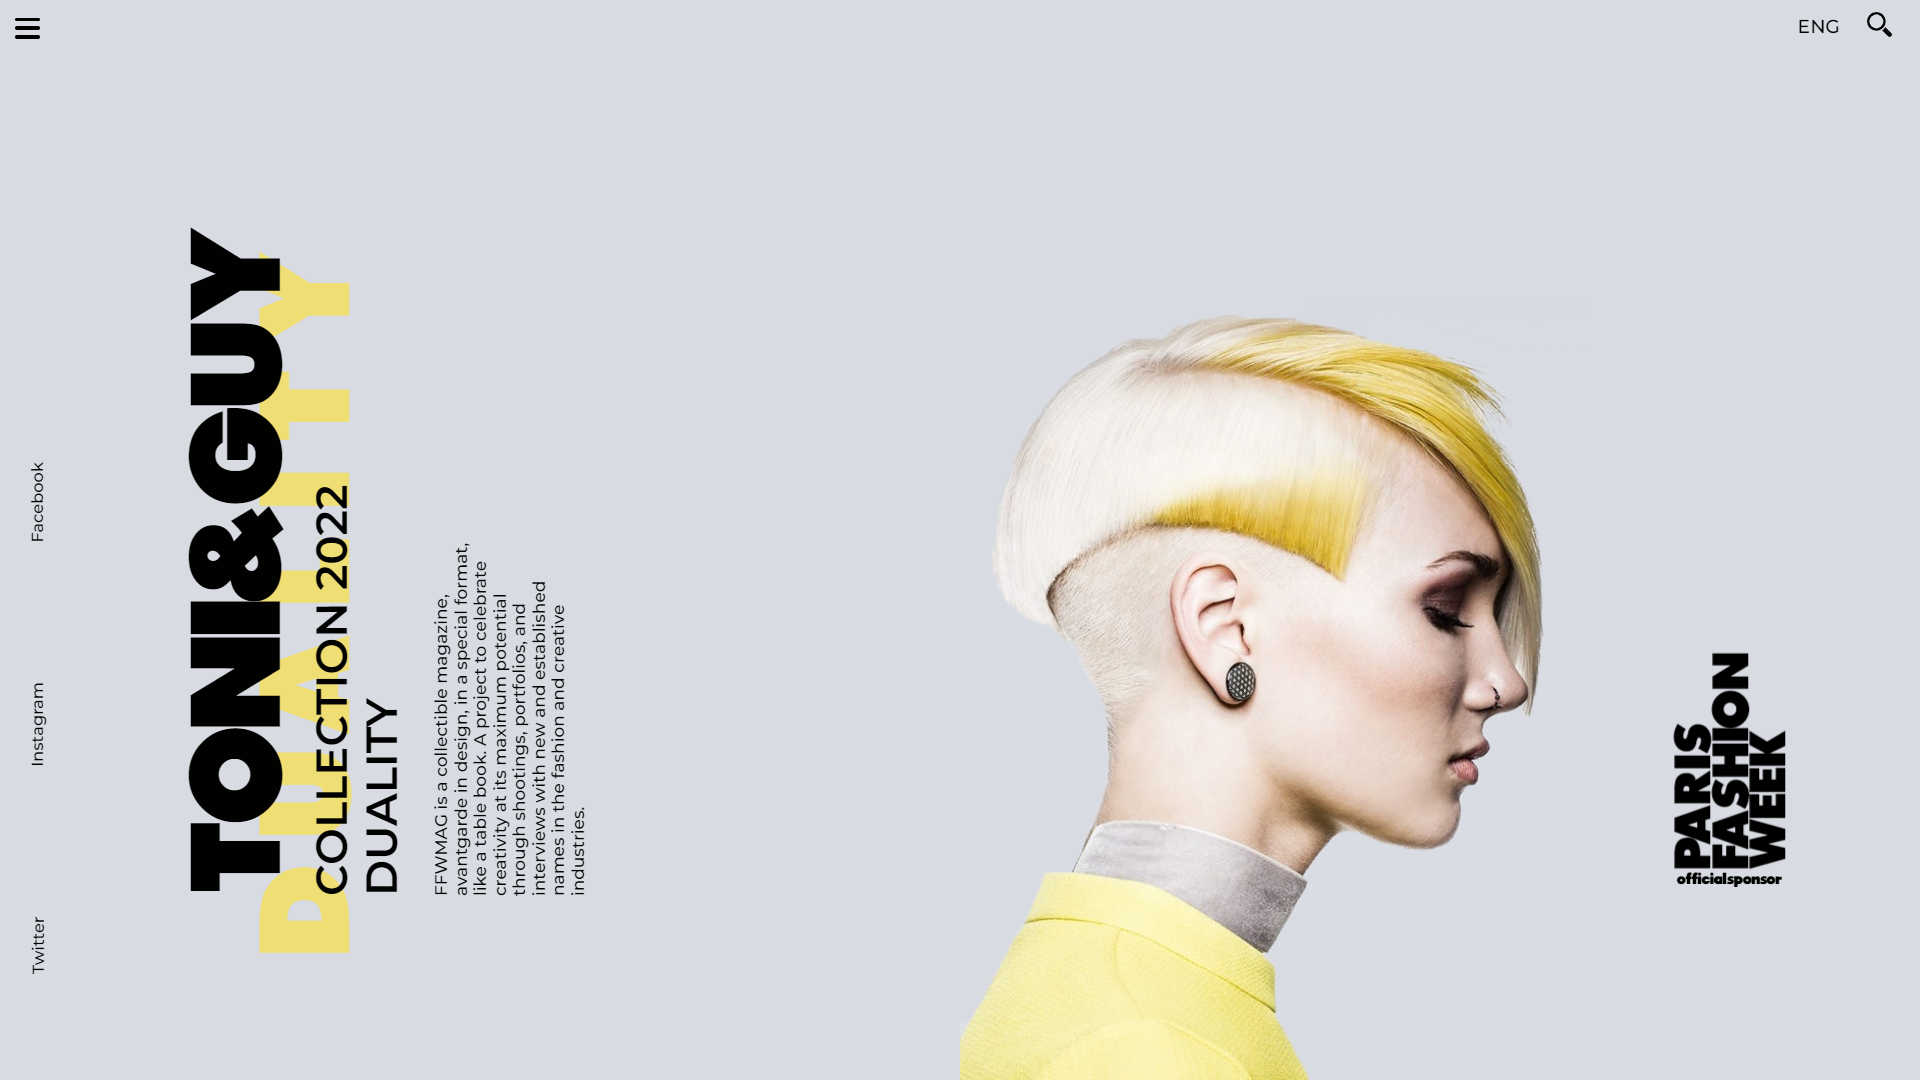
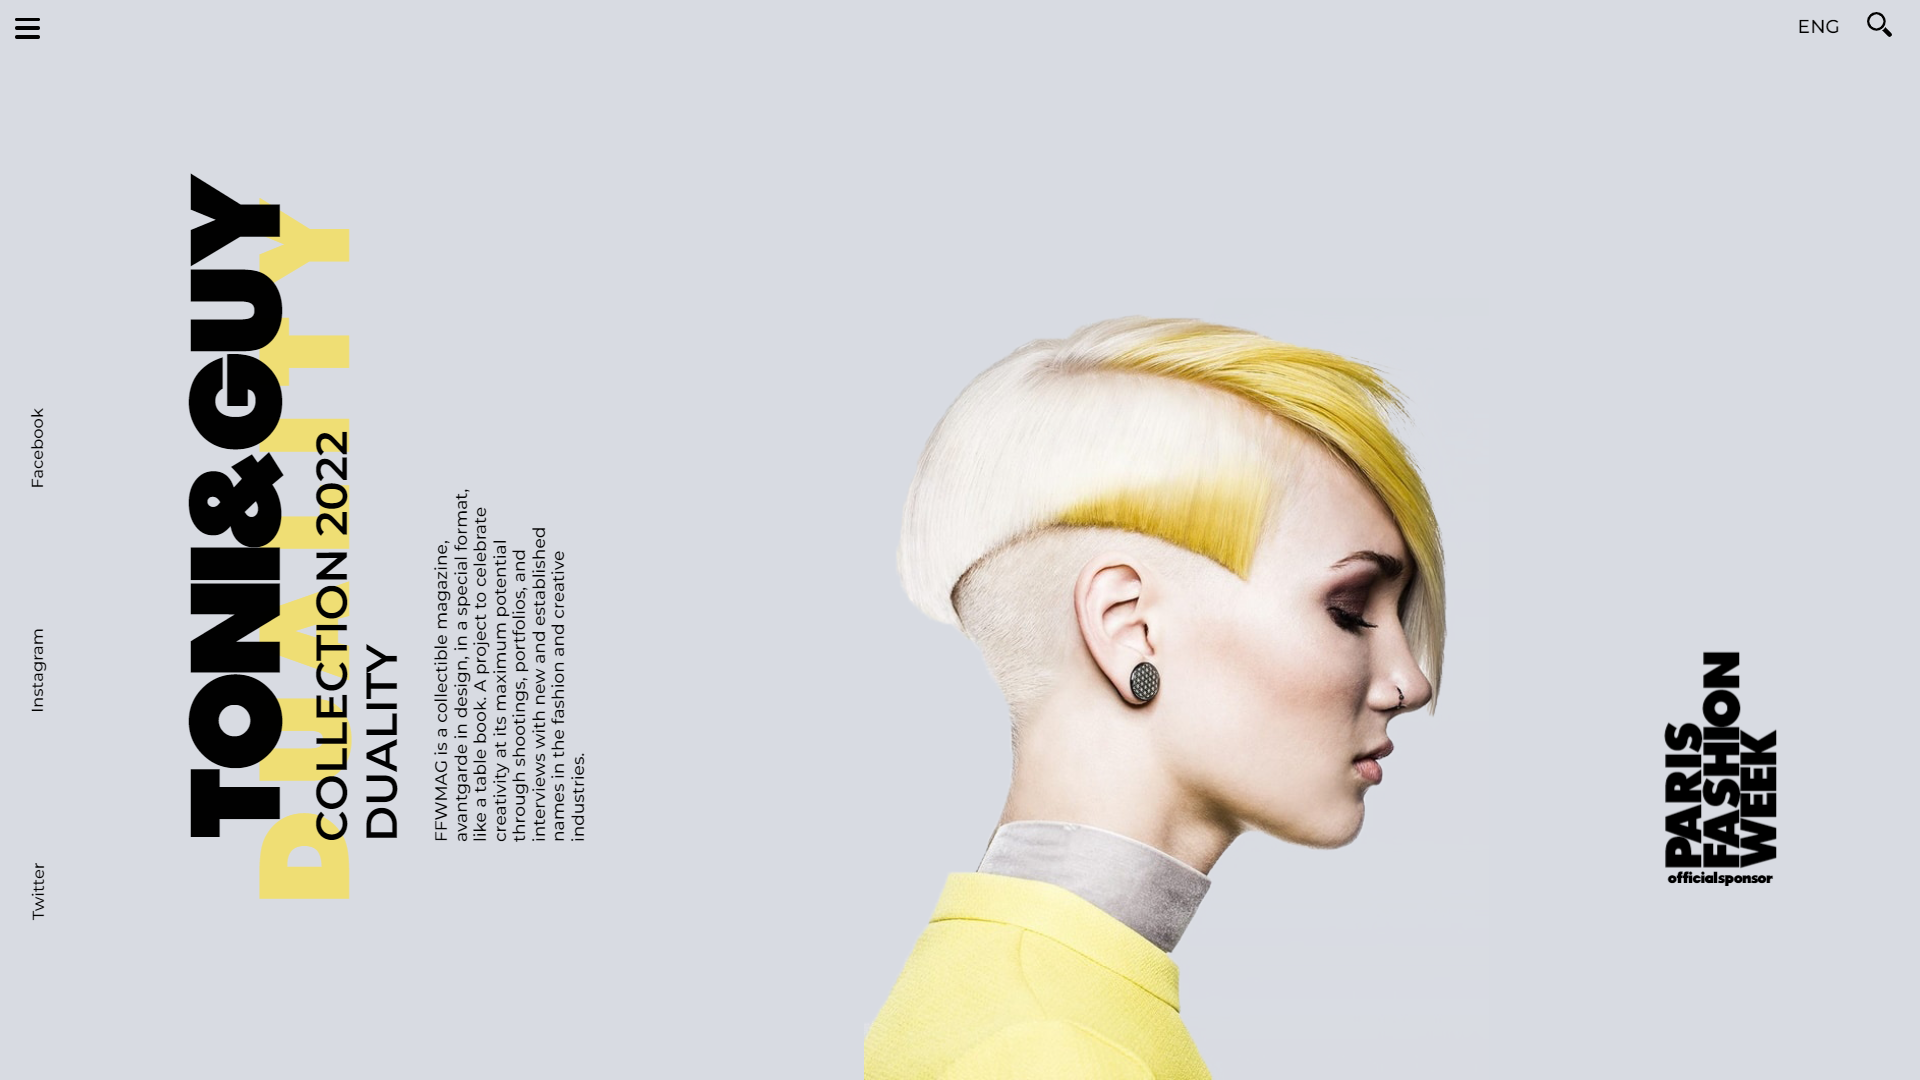
Bugs fixed

diff --git a/assets/sass/style.scss b/assets/sass/style.scss
@@ -85,6 +85,9 @@ html{
             width: 100%;
             height: 5vh;
             @include flexBox(row, space-between, center);
+            position: absolute;
+            left: 0;
+            top: 0;
 
             div{
                 width: 120px;
@@ -240,14 +243,15 @@ html{
                     width: 500px;
                     position: absolute;
                     bottom: 0;
-                    left: 50%;
+                    left: 45%;
                     opacity: 0;
                     animation: fadeRightL 0.7s 2.8s ease-in-out forwards;
                 }
 
                 .logo-text{
-                    position: relative;
-                    bottom: -100px;
+                    position: absolute;
+                    top: 58%;
+                    left: 80%;
                     opacity: 0;
                     animation: fadeDown 0.7s 2.2s ease-in-out forwards;
                 }

diff --git a/assets/css/dist/style.css b/assets/css/dist/style.css
@@ -17,7 +17,7 @@ html body {
   font-family: "Montserrat", "Poppins";
   background: #D8DBE2;
   color: #000;
-  width: 100%;
+  width: 100vh;
   height: 100vh;
   overflow: hidden;
   font-size: 1.5rem;
@@ -146,6 +146,9 @@ html body header {
   -ms-flex-align: center;
   -webkit-align-items: center;
   align-items: center;
+  position: absolute;
+  left: 0;
+  top: 0;
 }
 
 html body header div {
@@ -426,14 +429,15 @@ html body .content main img {
   width: 500px;
   position: absolute;
   bottom: 0;
-  left: 50%;
+  left: 45%;
   opacity: 0;
   animation: fadeRightL 0.7s 2.8s ease-in-out forwards;
 }
 
 html body .content main .logo-text {
-  position: relative;
-  bottom: -100px;
+  position: absolute;
+  top: 58%;
+  left: 80%;
   opacity: 0;
   animation: fadeDown 0.7s 2.2s ease-in-out forwards;
 }

diff --git a/assets/css/style.css b/assets/css/style.css
@@ -135,6 +135,9 @@ html body header {
   -ms-flex-align: center;
   -webkit-align-items: center;
   align-items: center;
+  position: absolute;
+  left: 0;
+  top: 0;
 }
 html body header div {
   width: 120px;
@@ -394,13 +397,14 @@ html body .content main img {
   width: 500px;
   position: absolute;
   bottom: 0;
-  left: 50%;
+  left: 45%;
   opacity: 0;
   animation: fadeRightL 0.7s 2.8s ease-in-out forwards;
 }
 html body .content main .logo-text {
-  position: relative;
-  bottom: -100px;
+  position: absolute;
+  top: 58%;
+  left: 80%;
   opacity: 0;
   animation: fadeDown 0.7s 2.2s ease-in-out forwards;
 }

diff --git a/assets/sass/dist/style.css b/assets/sass/dist/style.css
@@ -135,6 +135,9 @@ html body header {
   -ms-flex-align: center;
   -webkit-align-items: center;
   align-items: center;
+  position: absolute;
+  left: 0;
+  top: 0;
 }
 html body header div {
   width: 120px;
@@ -394,13 +397,14 @@ html body .content main img {
   width: 500px;
   position: absolute;
   bottom: 0;
-  left: 50%;
+  left: 45%;
   opacity: 0;
   animation: fadeRightL 0.7s 2.8s ease-in-out forwards;
 }
 html body .content main .logo-text {
-  position: relative;
-  bottom: -100px;
+  position: absolute;
+  top: 58%;
+  left: 80%;
   opacity: 0;
   animation: fadeDown 0.7s 2.2s ease-in-out forwards;
 }
